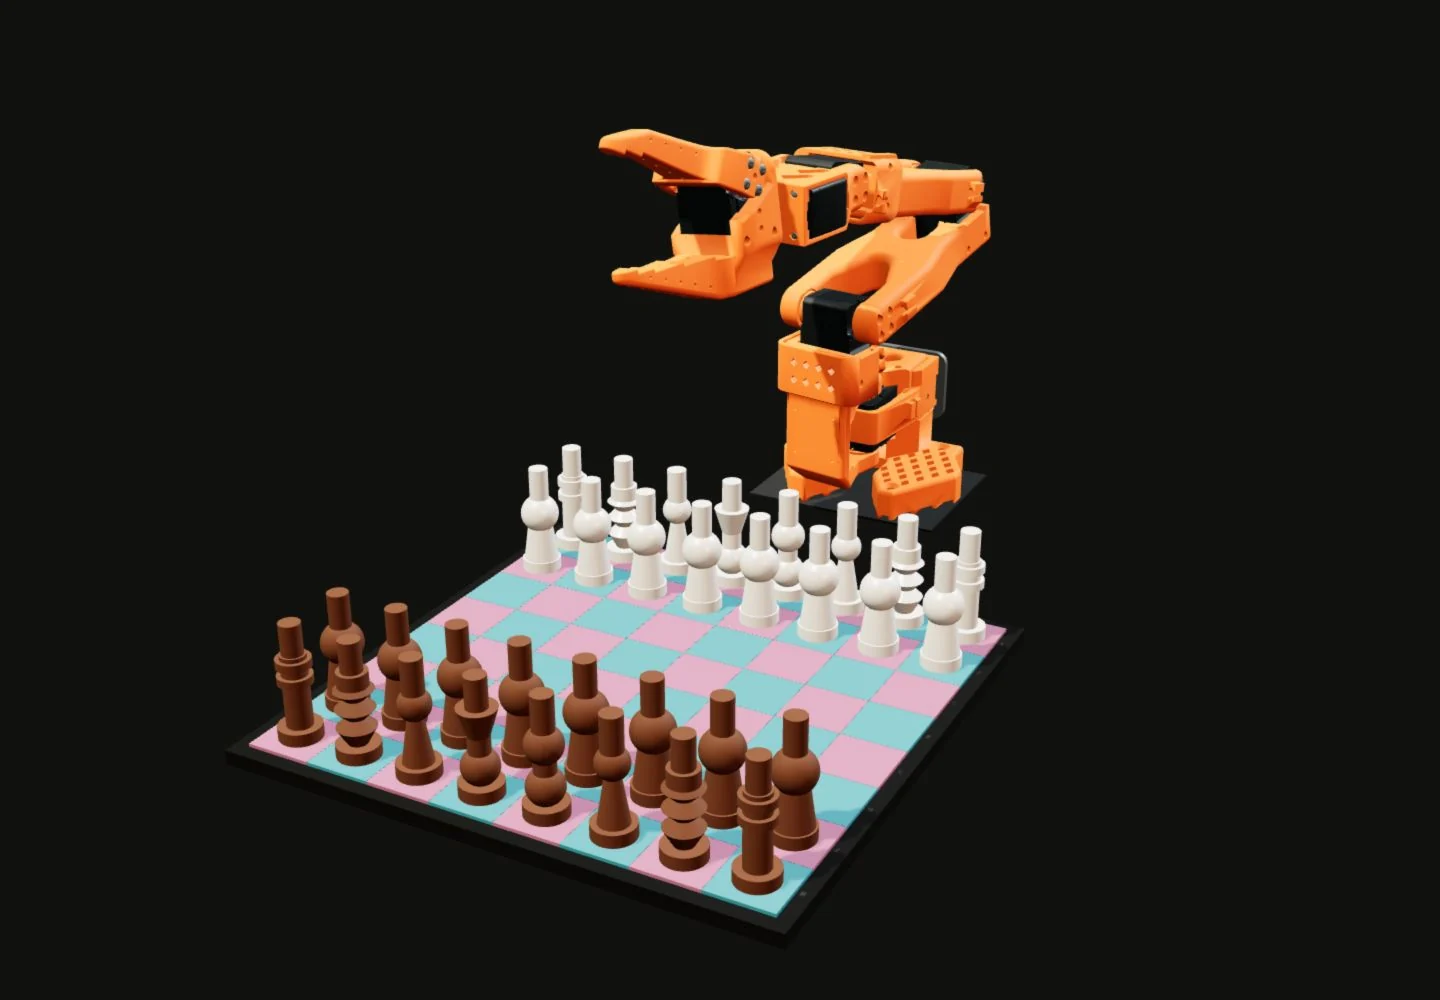
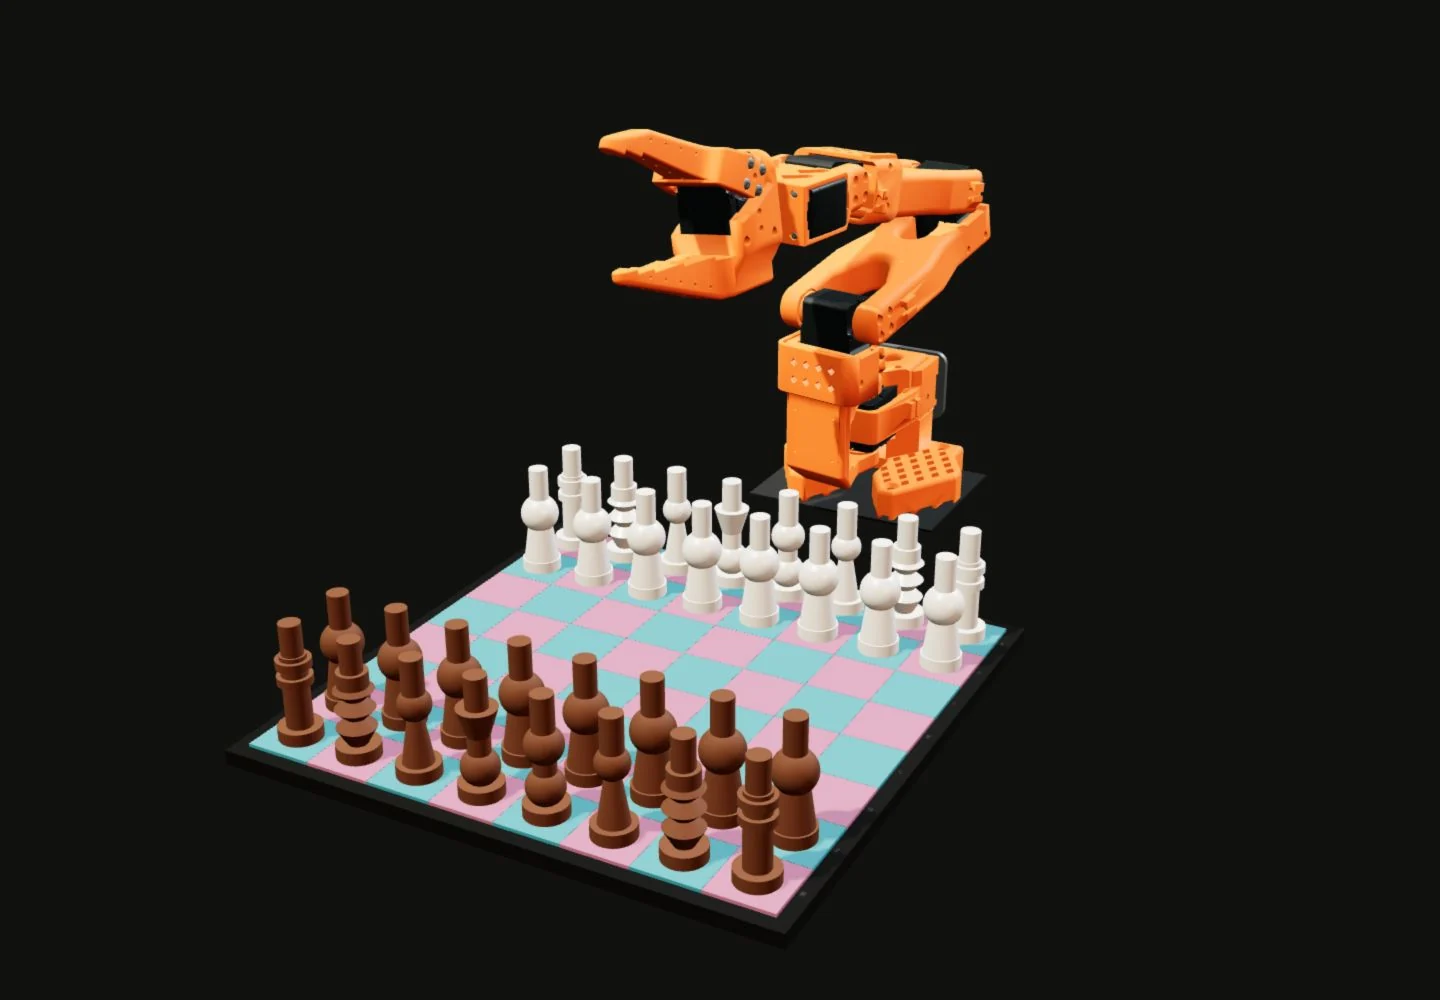
Align board square colours with the corrected chess setup

Changed region(s): [[0.1562, 0.527, 0.7188, 0.93], [0.4375, 0.744, 0.4688, 0.775]]

diff --git a/chess.js b/chess.js
@@ -1,6 +1,6 @@
-import { PIECES, piecePose, floatOffset, orbitPresence, ease, clamp, followScroll } from './chess-motion.mjs?v=cad-2';
-import { PALETTES, paletteFromSearch, paletteURL } from './chess-palettes.mjs?v=cad-2';
-import { loadChessGeometry, createChessSet, pixelRatioFor, frameDelta } from './chess-render.mjs?v=cad-2';
+import { PIECES, piecePose, floatOffset, orbitPresence, ease, clamp, followScroll } from './chess-motion.mjs?v=cad-3';
+import { PALETTES, paletteFromSearch, paletteURL } from './chess-palettes.mjs?v=cad-3';
+import { loadChessGeometry, createChessSet, pixelRatioFor, frameDelta } from './chess-render.mjs?v=cad-3';
 
 const section = document.querySelector('.chess-study');
 const stage = section.querySelector('.chess-stage');
@@ -24,7 +24,7 @@ function selectPalette(key, updateURL = true) {
   section.dataset.palette = selectedPalette;
   paletteButtons.forEach(button => button.setAttribute('aria-pressed', String(button.dataset.palette === selectedPalette)));
   if (!section.classList.contains('is-ready')) {
-    section.querySelector('.chess-poster').src = `${PALETTES[selectedPalette].poster}?v=cad-2`;
+    section.querySelector('.chess-poster').src = `${PALETTES[selectedPalette].poster}?v=cad-3`;
   }
   if (updateURL) history.replaceState(null, '', paletteURL(location.href, selectedPalette));
   wakeScene();
@@ -63,7 +63,7 @@ async function init() {
   try {
     const [THREE, { createRobot }] = await Promise.all([
       import('./assets/vendor/three/three.module.min.js'),
-      import('./robot.js?v=cad-2'),
+      import('./robot.js?v=cad-3'),
     ]);
     const narrow = () => viewport.clientWidth < 800;
     renderer = new THREE.WebGLRenderer({ alpha: true, antialias: true, powerPreference: 'high-performance' });
@@ -149,7 +149,9 @@ async function init() {
       tileMaterials.push(tiles.material);
       let index = 0;
       for (let z = 0; z < 8; z++) for (let x = 0; x < 8; x++) {
-        if ((x + z) % 2 === colour) {
+        // A1 is dark and each queen starts on its own colour, also after the
+        // complete arrangement and coordinate engraving rotate by 180°.
+        if ((x + z + 1) % 2 === colour) {
           matrix.makeTranslation(x - 3.5, -0.028, z - 3.5);
           tiles.setMatrixAt(index++, matrix);
         }

diff --git a/robot.js b/robot.js
@@ -1,6 +1,6 @@
-import { robotPose } from './robot-motion.mjs?v=cad-2';
-import { ease } from './chess-motion.mjs?v=cad-2';
-import { PALETTES } from './chess-palettes.mjs?v=cad-2';
+import { robotPose } from './robot-motion.mjs?v=cad-3';
+import { ease } from './chess-motion.mjs?v=cad-3';
+import { PALETTES } from './chess-palettes.mjs?v=cad-3';
 
 export async function createRobot(THREE, load = fetch) {
   const baseURL = new URL('./assets/robot/', import.meta.url);
@@ -10,8 +10,8 @@ export async function createRobot(THREE, load = fetch) {
   try {
     const compressed = typeof DecompressionStream !== 'undefined';
     const [manifestResponse, binaryResponse] = await Promise.all([
-      load(new URL('so101.json?v=cad-2', baseURL), { signal: controller.signal }),
-      load(new URL(`so101.bin${compressed ? '.gz' : ''}?v=cad-2`, baseURL), { signal: controller.signal }),
+      load(new URL('so101.json?v=cad-3', baseURL), { signal: controller.signal }),
+      load(new URL(`so101.bin${compressed ? '.gz' : ''}?v=cad-3`, baseURL), { signal: controller.signal }),
     ]);
     if (!manifestResponse.ok || !binaryResponse.ok) throw new Error('Robot asset unavailable');
     const body = compressed ? new Response(binaryResponse.body.pipeThrough(new DecompressionStream('gzip'))) : binaryResponse;

diff --git a/index.html b/index.html
@@ -11,7 +11,7 @@
 <link rel="preload" href="assets/fonts/panchang-500-normal.woff2" as="font" type="font/woff2" crossorigin>
 <link rel="stylesheet" href="fonts.css">
 <link rel="stylesheet" href="style.css">
-<link rel="stylesheet" href="chess.css?v=cad-2">
+<link rel="stylesheet" href="chess.css?v=cad-3">
 </head>
 <body>
 
@@ -136,7 +136,7 @@
       </div>
 
       <div class="chess-viewport" role="img" aria-label="The custom chess pieces on an eight-by-eight board, with the SO-101 robot arm behind it.">
-        <img class="chess-poster" src="assets/chess/poster.webp?v=cad-2" width="1440" height="1000" alt="" loading="lazy">
+        <img class="chess-poster" src="assets/chess/poster.webp?v=cad-3" width="1440" height="1000" alt="" loading="lazy">
         <div class="chess-canvas" aria-hidden="true"></div>
         <div class="chess-labels" aria-hidden="true"></div>
       </div>
@@ -402,6 +402,6 @@
 </template>
 
 <script src="script.js"></script>
-<script type="module" src="chess.js?v=cad-2"></script>
+<script type="module" src="chess.js?v=cad-3"></script>
 </body>
 </html>
